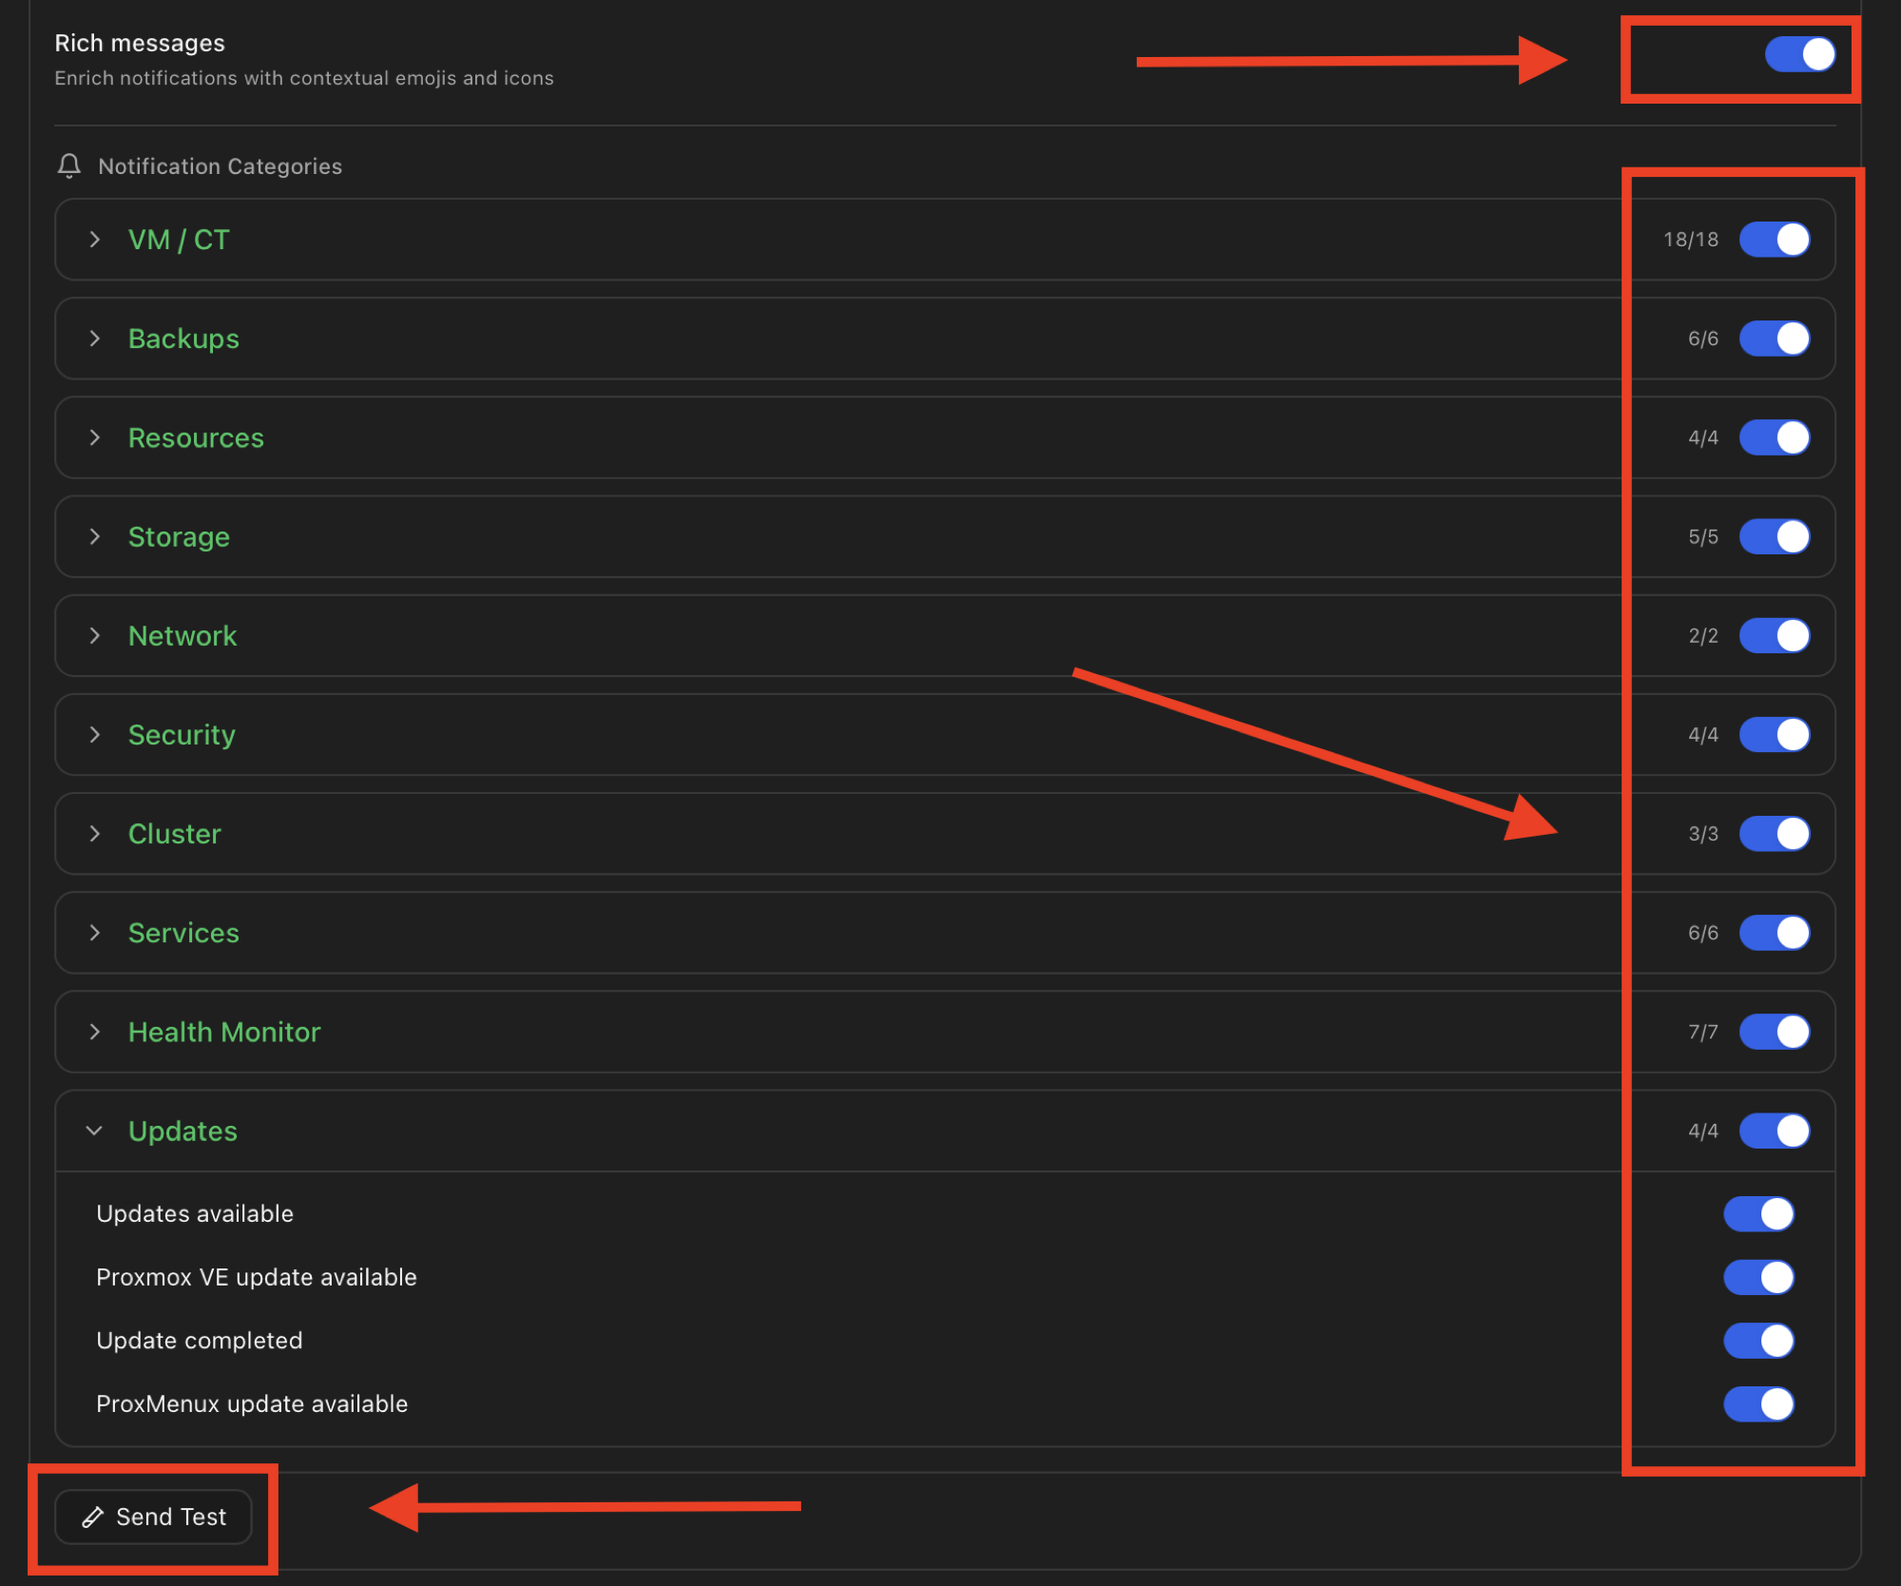
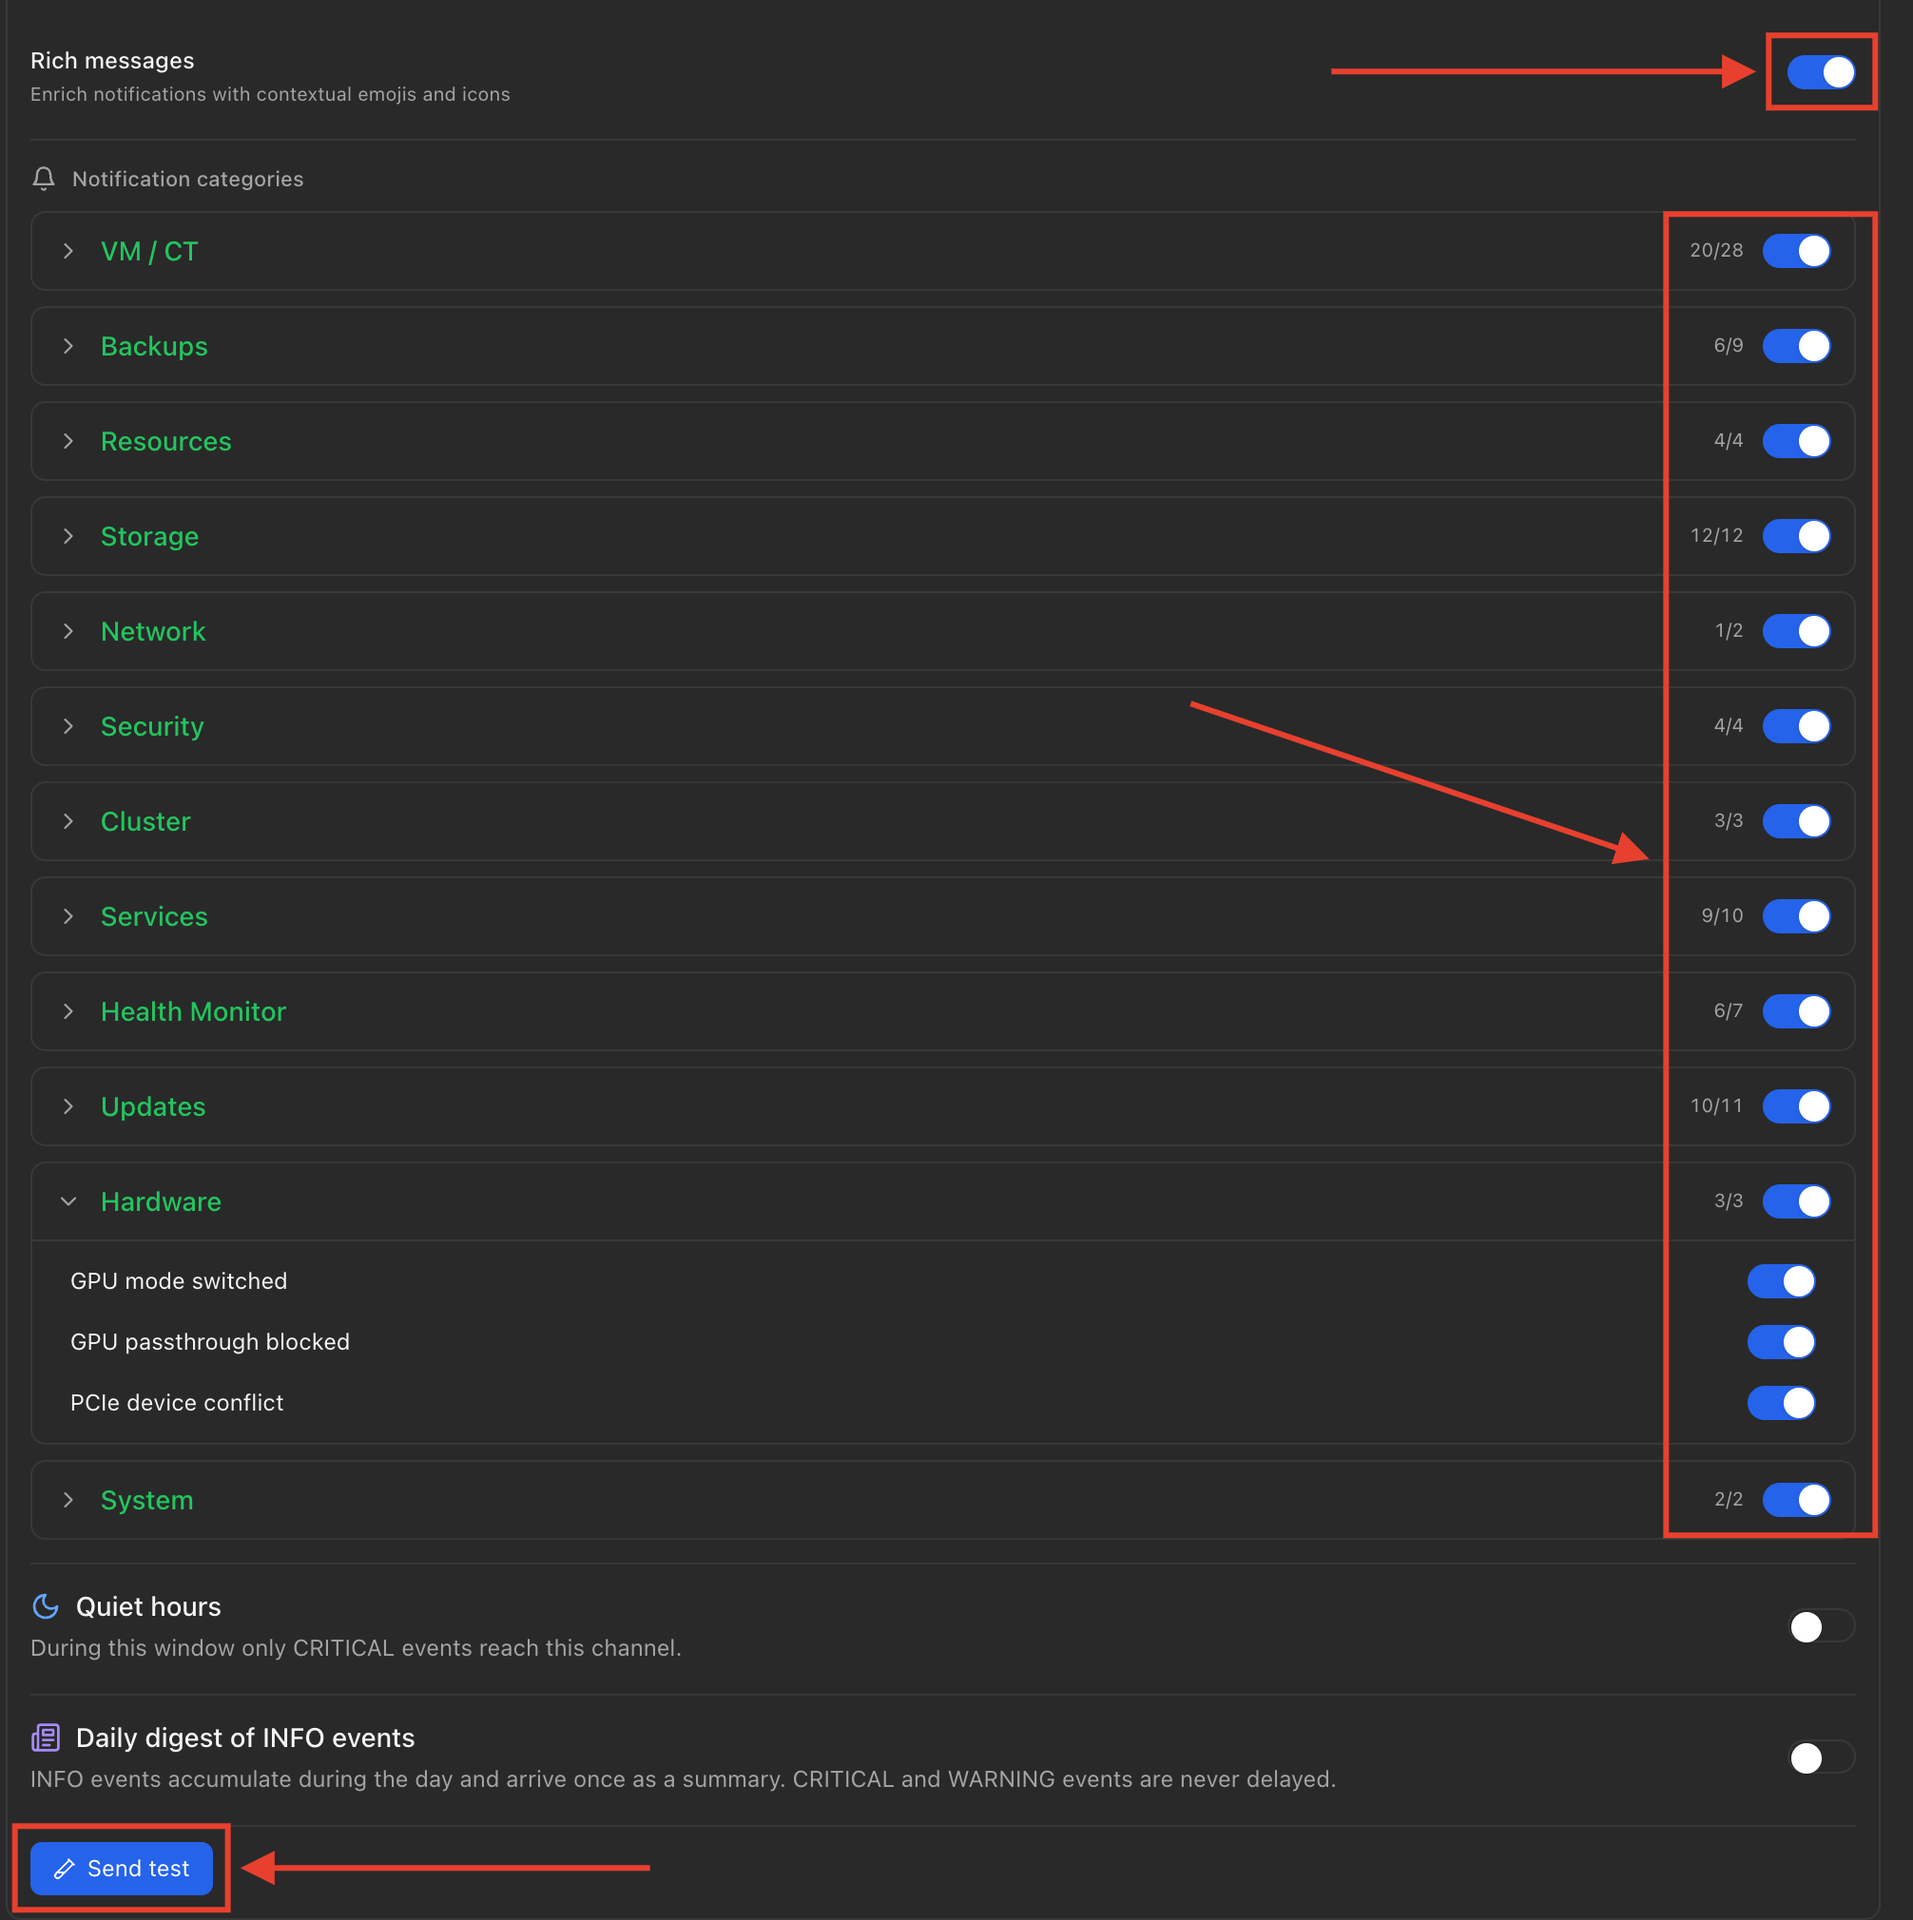
Explain every reason a Compose file cannot be installed in plain words

diff --git a/oci/src/proxmenux_oci/custom.py b/oci/src/proxmenux_oci/custom.py
@@ -674,6 +674,29 @@ BLOCKER_TEXTS = {
     'ulimits-format-or-resource': N_('the resource limits it asks for cannot be applied'),
     'mem-limit-format-or-below-proxmox-minimum': N_('the memory limit it asks for cannot be applied'),
     'mem-limit-deploy-consistency-review': N_('it asks for two different memory limits'),
+    'tmpfs-format-options-or-overlap': N_('a path in memory (tmpfs) uses an option that cannot be applied or overlaps another path'),
+    'extra-hosts-format': N_('its extra host names are not written in a way that can be read'),
+    'cpu-shares-format': N_('its CPU shares are not written in a way that can be read'),
+    'user-format': N_('the user it runs as is not written in a way that can be read'),
+    'entrypoint-format': N_('its entrypoint is not written in a way that can be read'),
+    'working-dir-format': N_('its working directory is not written in a way that can be read'),
+    'logging-driver': N_('it uses a logging driver that has no equivalent here'),
+    'mac-address-format': N_('its MAC address is not written in a way that can be read'),
+    'stop-signal-format': N_('its stop signal is not written in a way that can be read'),
+    'cap-add-format': N_('the capabilities it adds are not written in a way that can be read'),
+    'sysctls-format-or-nonnamespaced': N_('it changes kernel settings that a container cannot change'),
+    'security-options-value': N_('it asks for security options that cannot be applied'),
+    'group-add-format': N_('the extra groups it asks for are not written in a way that can be read'),
+    'top-level-networks': N_('it declares its own networks, which have no equivalent here'),
+    'top-level-named-volumes': N_('it declares named volumes that have to be reviewed first'),
+}
+
+# Codes that carry the value they refer to after a colon.
+BLOCKER_VALUE_TEXTS = {
+    'runtime-value': N_('it asks for a runtime that cannot be used:'),
+    'ipc-value': N_('it asks for an IPC mode that cannot be used:'),
+    'network-mode-value': N_('it asks for a network mode that cannot be used:'),
+    'capability-host-global': N_('it asks for a capability that affects the whole host:'),
 }
 
 
@@ -686,6 +709,9 @@ def blocker_text(code: str) -> str:
         return f"{translate('it uses the Compose option')} {code.split(':', 1)[1]}"
     if code.startswith('device-mapping:'):
         return f"{translate('a device it asks for cannot be translated:')} {code.split(':', 1)[1]}"
+    prefix, _, value = code.partition(':')
+    if value and prefix in BLOCKER_VALUE_TEXTS:
+        return f"{translate(BLOCKER_VALUE_TEXTS[prefix])} {value}"
     if code.endswith(':missing-image'):
         return translate('one of its services declares no image')
     if code.endswith(':invalid-definition'):

diff --git a/web/data/changelog/es.md b/web/data/changelog/es.md
@@ -1733,7 +1733,7 @@ El proyecto Helper Scripts es un recurso extraordinario para la comunidad Proxmo
 
 ### Nueva versión v1.1.6
 
-![Shared Resources Menu](https://macrimi.github.io/ProxMenux/share/main-menu.png)
+![Shared Resources Menu](https://macrimi.github.io/ProxMenux/share/storage-share-menu.png)
 
 
 ### Añadido

diff --git a/CHANGELOG.md b/CHANGELOG.md
@@ -1743,7 +1743,7 @@ The Helper Scripts project is an extraordinary resource for the Proxmox communit
 
 ### New version v1.1.6
 
-![Shared Resources Menu](https://macrimi.github.io/ProxMenux/share/main-menu.png)
+![Shared Resources Menu](https://macrimi.github.io/ProxMenux/share/storage-share-menu.png)
 
 
 ### Added
